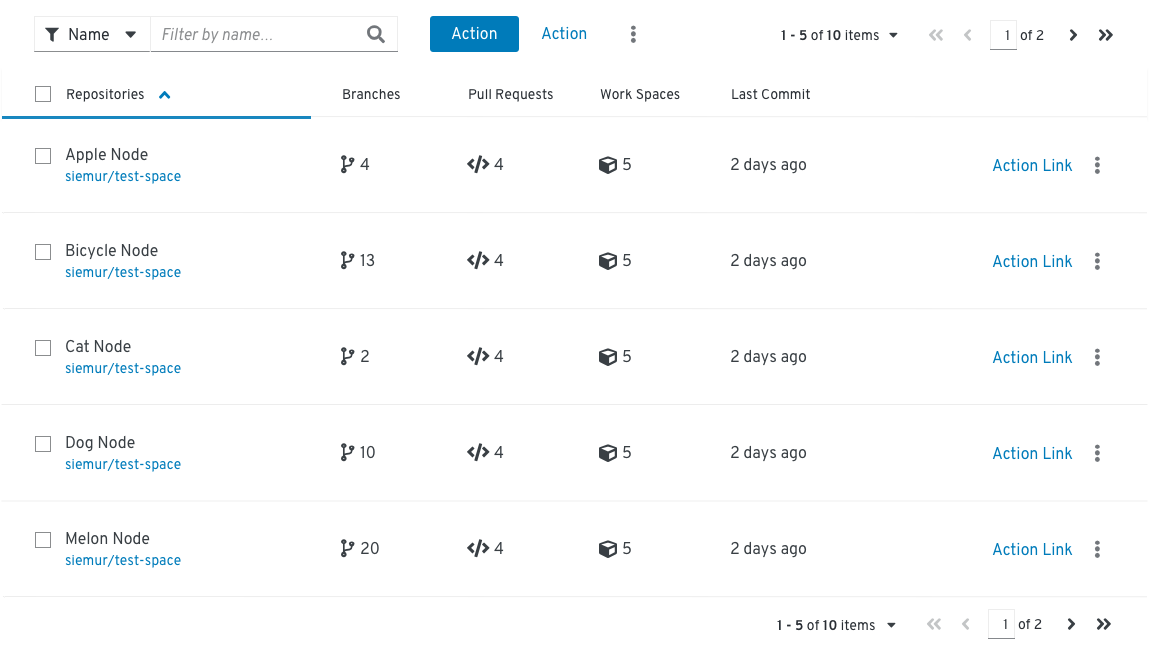
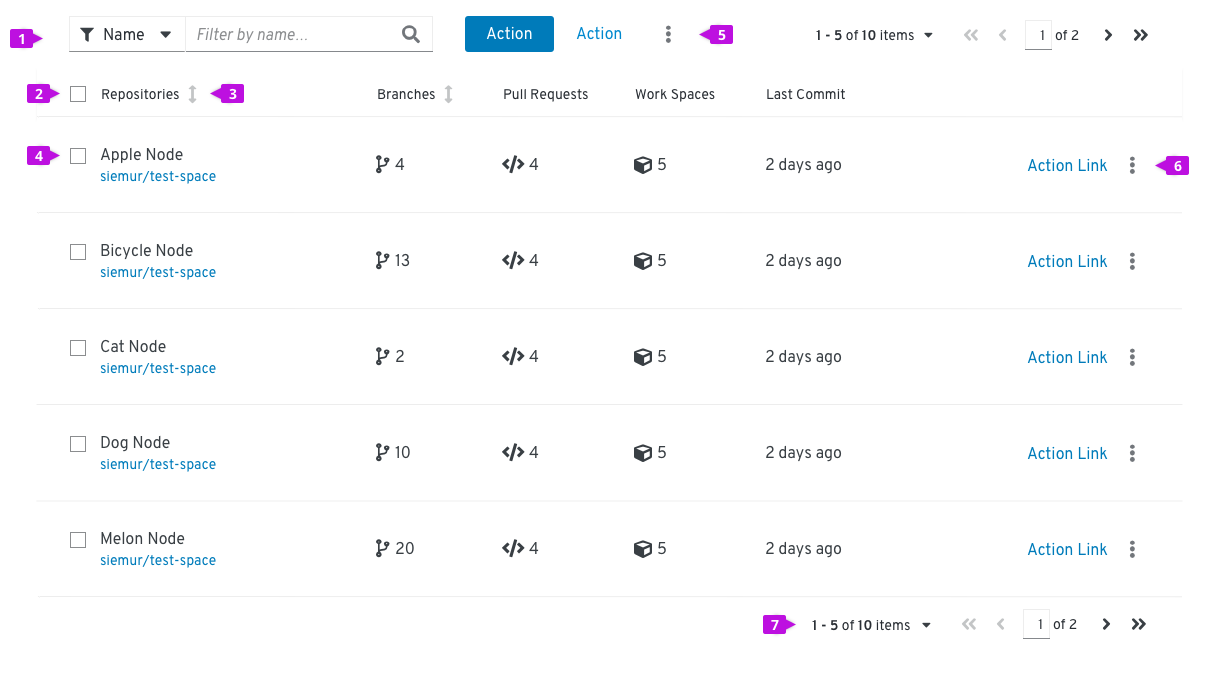
Second round of updates. Ready for review.

diff --git a/packages/patternfly-4/src/content/design-guidelines/usage-and-behavior/lists-and-tables/design.md b/packages/patternfly-4/src/content/design-guidelines/usage-and-behavior/lists-and-tables/design.md
@@ -1,12 +1,12 @@
 # Lists and tables
 PatternFly offers two components for displaying large data sets, the Data List and the Data Table. They satisfy similar use cases, but choosing the correct component to use in your design will be dependent on the type of data you need to display.
 
-Use Data Lists when:
+Use [Data Lists](#Data lists) when:
 * A flexible layout is more important than arranging information in a grid.
 * You want to include active content like a chart.
 * Content displayed may vary between rows.
 
-Use a Data Tables when:
+Use a [Data Tables](#Data tables) when:
 * Users will want to consume data as a grid (i.e. structured rows and columns).
 * You want column headers.
 
@@ -22,7 +22,7 @@ PatternFly supports several variations of the Data List component.
 3. **Inline actions:** These actions apply only to the current row/item.
 
 #### When to use
-Use a Data List when the information you want to display is not easily structured into a tabular format, you want a more flexible layout within rows, of you plan to embed rich content like a chart or an image into a row.
+Use a Data List when the information you want to display is not easily structured into a tabular format, you want a more flexible layout within rows, or you plan to embed rich content like a chart or an image into a row.
 
 #### When not to use
 The Data List is not recommended for displaying content that is better presented in tabular format with well defined columns and headings. In these situations a Data Table should be used.
@@ -65,16 +65,16 @@ Use when you have more information than will comfortably fit inside a row or you
 
 ## Data tables
 Two alternative stylings are available for Data Tables.
-* **Standard** styling, sometimes been referred to as a hybrid list as it combines the styling of a list view with behaviors that are commonly associated with tables.
-* **Compact** styling, when you want to maximize the amount of data that can be displayed in a small space.
+* **Standard styling**, sometimes been referred to as a hybrid list as it combines the styling of a list view with behaviors that are commonly associated with tables.
+* **Compact styling**, when you want to maximize the amount of data that can be displayed in a small space.
 
 ### Standard Data Table
 
-[image]
+![standard data table](img/standard-data-table.png)
 
 1. **Toolbar:** The toolbar sits above the list and contains controls for manipulating table data. Common actions include filtering, sorting, and pagination.
-2. **Select all:** When present, selects all items in a table.
-3. **Column headers:**
+2. **Select all:** When present, selects all items in a table. If pagination is being used, this will only select items on the current page.
+3. **Column headers:** If the user is able to sort on a column, the first click on the header will sort the content of the table on the content in that column. Subsequent clicks will toggle the direction of the sort. Table data can only be sorted on one column at a time.
 4. **Select checkbox:** Select this row.
 5. **Global actions:** These actions apply to all selected items.
 6. **Inline actions:** These actions apply only to the current row/item.
@@ -97,7 +97,7 @@ When to use
 Use a Compact Data Table when you want to show as much data per page as possible and readability is a secondary concern.
 
 
-Expandable Data Table
+### Expandable Data Table
 
 ![expandable data table](img/expandable-data-table.png)
 
@@ -105,15 +105,29 @@ Expandable Data Table
 2. **Expansion panel:** contains details associated with a row.
 
 When to use
-Use a Compact Data Table when you want to show as much data per page as possible and readability is a secondary concern.
+Use when you have more information than will comfortably fit inside a row or you want to provide a way for advanced users to access information that is not applicable to all users.
 
-
-Compound-Expandable Data Table
+### Compound-Expandable Data Table
 
 ![compound expandable data table](img/compound-expandable-data-table.png)
 
-Expansion: When present, expands the row.
-Expansion panel: contains details associated with a row.
+1. **Expandable cell:** The user can click on any expandable cell to reveal more detail about an item. If the expansion for an item is already open, clicking on a different cell will close the current item and open a new one.
+2. **Expansion panel:** contains details associated with an expandable item.
 
-When to use
-Use a Compact Data Table when you want to show as much data per page as possible and readability is a secondary concern.
+#### When to use
+Use a compound expandable list when you want multiple expansion panels that relate to specific table columns where it would not make sense to combine all of this information into a single, simple expansion.
+
+## Components and demos used
+
+### Core components and demos
+[DataList](/documentation/core/components/DataList), [DataTable](/documentation/core/components/DataTable)
+
+### React components and demos
+[DataList](/documentation/react/components/DataList), [DataTable](/documentation/react/components/DataTable)
+
+## Using lists and tables in a page
+lists or a tables should be placed in the body of a page with the width being driver be the containing element.
+
+![table in a page](img/data-table-example.png)
+
+In the example shown here, a data table is positioned in the body of a page by placing it inside of a card.
